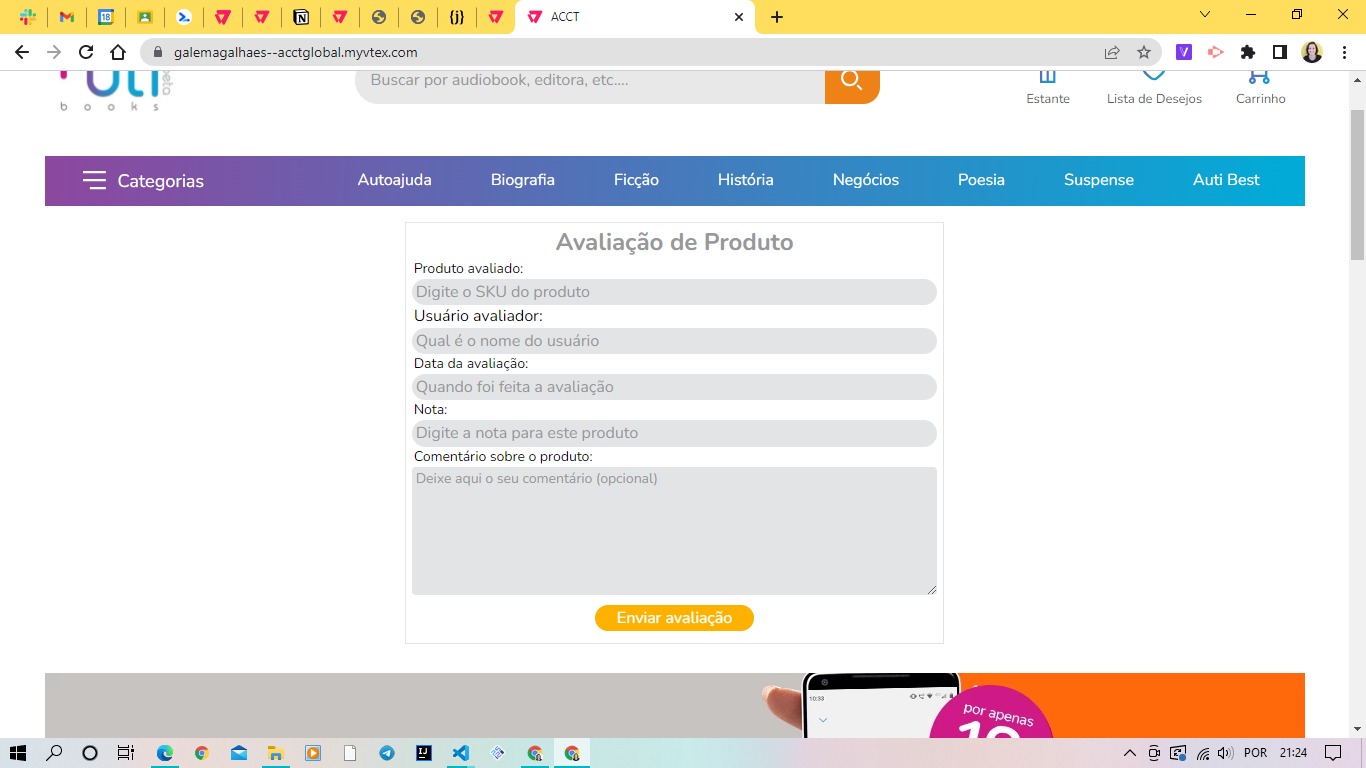
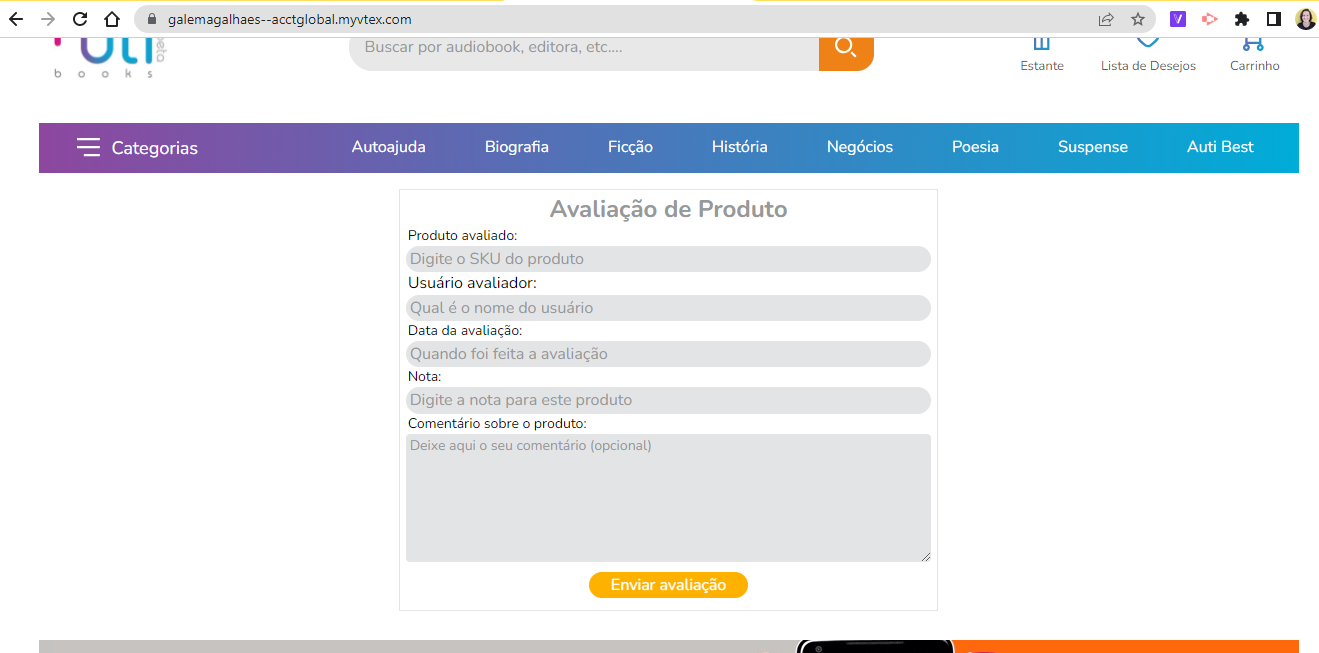
refatora objeto

diff --git a/estagioMod8/7.1.1-componente-react/react-app-template-master/react/RattingsReviews.tsx b/estagioMod8/7.1.1-componente-react/react-app-template-master/react/RattingsReviews.tsx
@@ -3,7 +3,7 @@
 /* eslint-disable no-empty-pattern */
 /* eslint-disable @typescript-eslint/no-empty-interface */
 
-import * as React from 'react'
+import  React, { useEffect, useState } from 'react'
 
 import Input from './components/input'
 import Botao from './components/botao'
@@ -19,20 +19,23 @@ const RattingsReviews: StorefrontFunctionComponent<RattingsReviewsProps> = ({}) 
     data.getMonth() + 1
   }/${data.getFullYear()}`
 
+  const [rating, setRating] = useState(0)
+  const [dado, setDado] = useState({Cliente:"", Produto:"", Data: dataFormatada, Nota: 0, Comentario: ""})
+
+
   const handleSubmit = (e: any) => {
     e.preventDefault()
-    const cliente = document.querySelector('#user') as HTMLInputElement
-    const produto = document.querySelector('#produto') as HTMLInputElement
-    const nota = document.querySelector('#nota') as HTMLInputElement
-    const comentario = document.querySelector('#comentario') as HTMLInputElement
+
+    // const produto = document.querySelector('#produto') as HTMLInputElement
+    // const comentario = document.querySelector('#comentario') as HTMLInputElement
 
     const dados = {
-      Cliente: cliente.value,
-      Produto: produto.value,
+      Cliente: dado.Cliente,
+      Produto: dado.Produto,
       Data: dataFormatada,
       // eslint-disable-next-line radix
-      Nota: parseInt(nota.value),
-      Comentario: comentario.value,
+      Nota: rating,
+      Comentario: dado.Comentario,
     }
 
     console.log(dados)
@@ -53,52 +56,71 @@ const RattingsReviews: StorefrontFunctionComponent<RattingsReviewsProps> = ({}) 
       .catch((error) => console.log('error', error))
   }
 
+  useEffect(()=>{
+    setDado({...dado, Nota: rating})
+  // eslint-disable-next-line react-hooks/exhaustive-deps
+  },[rating])
+  console.log(dado)
+
   return (
     <form
       onSubmit={handleSubmit}
       id="form"
-      className="w-30 ma5 center ba b--light-gray pa2"
+      className="w-30 ma5 center ba b--silver pa2"
     >
       <div className="mw-100 flex flex-column">
         <h1 className="center mt5 mb5 f3 gray">Avaliação de Produto</h1>
       </div>
 
-      <span className="w-100">
-        <div className="w-50 dib ">
+      <div className="flex">
+
+        <div className="w-50">
           <label htmlFor="data" className="f6 pl2">
             Hoje é:
           </label>
-          <Input id="data" value={dataFormatada} />
+          <Input
+            id="data"
+            value={dataFormatada}
+            className="br2 mb4 bg-white gray ba b--silver f5 pa2"/>
         </div>
 
         <div className="w-50 dib ">
           <label htmlFor="produto" className="f6 pl2">
             Produto avaliado:
           </label>
-          <Input id="produto" placeholder="SKU do produto" />
+          <Input
+            id="produto"
+            placeholder="SKU do produto"
+            className="br2 mb4 bg-white gray ba b--silver f5 pa2"/>
         </div>
-      </span>
+
+      </div>
 
       <div className="mw-100 flex flex-column">
         <label htmlFor="user" className="f6 pl2 w-100">
           Usuário avaliador:
         </label>
-        <Input id="user" placeholder="Digite aqui o nome do usuário" />
+        <Input
+          id="user"
+          className="br2 mb4 bg-white gray ba b--silver f5 pa2"
+          placeholder="Digite aqui o nome do usuário"
+          onchange={e => setDado({...dado, Cliente: e.target.value})}/>
 
-      <StarRattings/>
+          <StarRattings handleRating={rating} handleSetRating={(e:number)=>{setRating(e)}} />
+
 
       <label htmlFor="comentario" className="f6 pl2">
         Comentário sobre o produto:
       </label>
-      <Textarea
-        id="comentario"
-        placeholder="Deixe aqui o seu comentário (opcional)"
+      <Textarea id="comentario" placeholder="Deixe aqui o seu comentário (opcional)" />
 
-      />
       </div>
+
+      <div className="flex">
       <Botao type="submit" id="botao">
         Enviar avaliação
       </Botao>
+      </div>
     </form>
   )
 }

diff --git a/estagioMod8/7.1.1-componente-react/react-app-template-master/react/components/estrelas/stars.tsx b/estagioMod8/7.1.1-componente-react/react-app-template-master/react/components/estrelas/stars.tsx
@@ -1,8 +1,52 @@
 import React, { useState } from 'react'
 import { FaStar } from 'react-icons/fa'
 
-const StarRattings = () => {
-  const [rating, setRating] = useState(0)
+interface PropsStar {
+  handleRating: number
+  handleSetRating: (e: number) => void
+}
+
+const StarRattings = (props: PropsStar) => {
+  const { handleRating, handleSetRating } = props
+  const contador = [1, 2, 3, 4, 5]
+  const [hover, setHover] = useState(0)
+
+  return (
+    <div className="center mb4">
+      {contador.map((index) => {
+        const ratingValue = index
+
+        return (
+          <label key={index}>
+            <input
+              type="radio"
+              name="ratting"
+              className="dn "
+              value={ratingValue}
+              onClick={() => {
+                handleSetRating(ratingValue)
+              }}
+            />
+
+            <FaStar
+              className="w2 h2 pointer"
+              color={
+                ratingValue <= (hover || handleRating) ? '#ef8216' : '#e4e5e9'
+              }
+              onMouseEnter={() => setHover(ratingValue)}
+              onMouseLeave={() => setHover(0)}
+            />
+          </label>
+        )
+      })}
+      <p className="f6 pl7 ma0">Sua nota é {handleRating}</p>
+    </div>
+  )
+}
+
+export default StarRattings
+/**
+ *const [rating, setRating] = useState(0)
   const [hover, setHover] = useState(0)
 
   return (
@@ -34,6 +78,4 @@ const StarRattings = () => {
       <p className="f6 pl7 ma0">Sua nota é {rating}</p>
     </div>
   )
-}
-
-export default StarRattings
+ */

diff --git a/estagioMod8/7.1.1-componente-react/react-app-template-master/react/components/input/input.tsx b/estagioMod8/7.1.1-componente-react/react-app-template-master/react/components/input/input.tsx
@@ -1,20 +1,24 @@
 import * as React from 'react'
 
-interface Props {
+interface PropsInput {
   placeholder?: string
   type?: string
   id?: string
-  value?: any
+  value?: string
   className?: string
+  onchange?: (e: React.ChangeEvent<HTMLInputElement>) => void
 }
 
-function Input(props: Props) {
+function Input(props: PropsInput) {
+  const { value, type, placeholder, onchange } = props
+
   return (
     <input
-      className="br4 mw-100 mb4 bg-light-gray gray bn f5 pa3"
-      type={props.type}
-      value={props.value}
-      placeholder={props.placeholder}
+      className={props.className} // "br2 mb4 bg-white gray ba b--silver f5 pa2"
+      type={type}
+      value={value}
+      placeholder={placeholder}
+      onChange={onchange}
       {...props}
       required
     />

diff --git a/estagioMod8/7.1.1-componente-react/react-app-template-master/react/components/textarea/textarea.tsx b/estagioMod8/7.1.1-componente-react/react-app-template-master/react/components/textarea/textarea.tsx
@@ -9,7 +9,7 @@ interface Props {
 function Textarea(props: Props) {
   return (
     <textarea
-      className="br2 mw-100 ma1 bg-light-gray bn f5 h4 pa2"
+      className="br2 mw-100 ma1 bg-white ba b--silver f5 h4 pa2"
       type={props.type}
       placeholder={props.placeholder}
       {...props}
